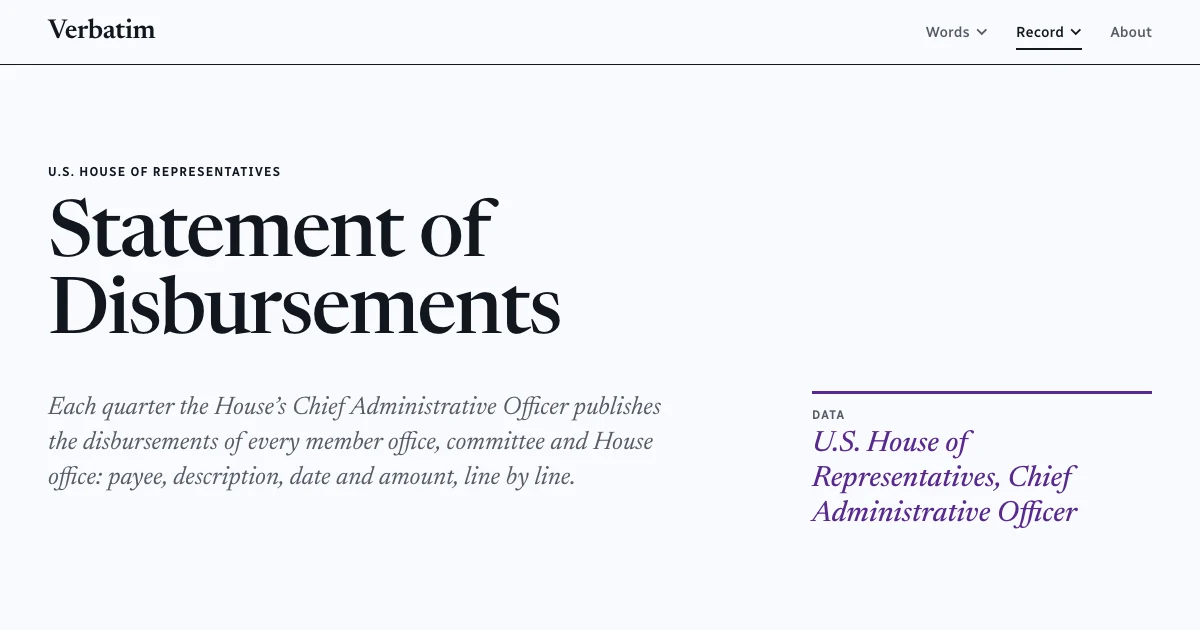
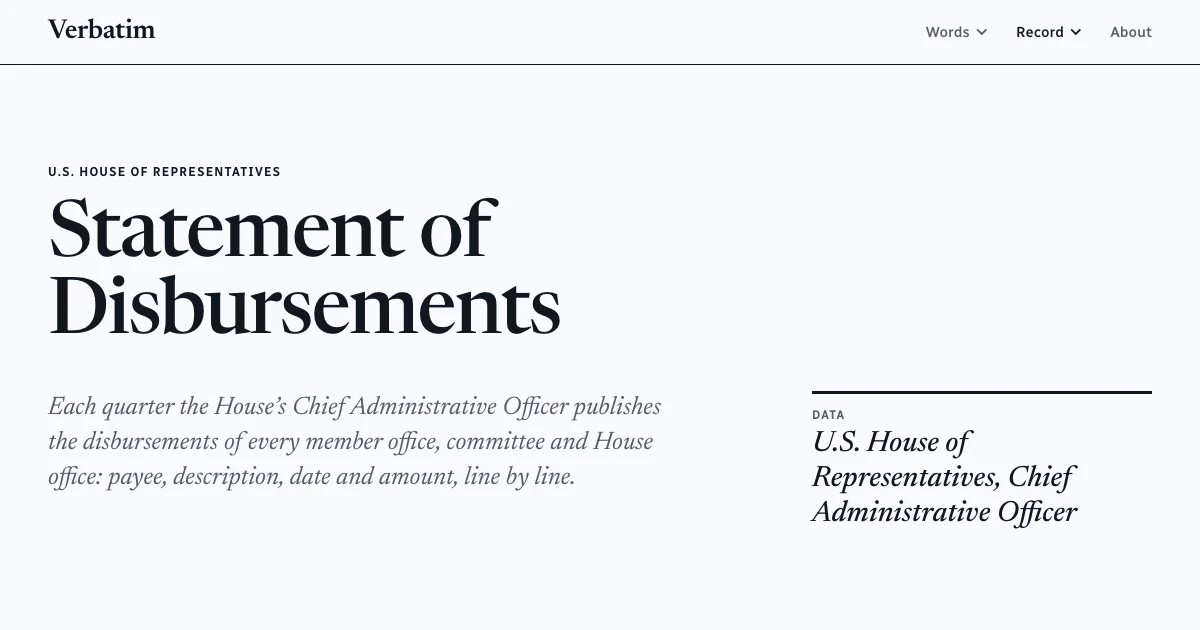
Ink bylines, credit rule and quote cites; drop nav underline

Changed region(s): [[0.6783, 0.6937, 0.8942, 0.8444], [0.6783, 0.6032, 0.9558, 0.6333], [0.8633, 0.0603, 0.8942, 0.0905]]

diff --git a/public/css/app.css b/public/css/app.css
@@ -195,10 +195,7 @@
     transition: color 0.15s;
   }
   .nav-link:hover { color: var(--color-ink); }
-  .nav-link[aria-current="page"] {
-    color: var(--color-ink);
-    box-shadow: inset 0 -2px 0 var(--color-ink);
-  }
+  .nav-link[aria-current="page"] { color: var(--color-ink); }
   .menu-button {
     padding: 0.4rem;
     margin-right: -0.4rem;
@@ -216,7 +213,7 @@
     border-bottom: 1px solid var(--color-rule);
   }
   .mobile-menu > .nav-link:last-child { border-bottom: 0; }
-  .mobile-menu .nav-link[aria-current="page"] { box-shadow: none; font-weight: 600; }
+  .mobile-menu .nav-link[aria-current="page"] { font-weight: 600; }
   .mobile-menu-label { padding-block: 0.85rem 0.15rem; }
   .mobile-menu-group .nav-link { padding-left: 1rem; }
 
@@ -234,10 +231,7 @@
   .nav-menu > summary::-webkit-details-marker { display: none; }
   .nav-menu > summary:hover,
   .nav-menu[open] > summary { color: var(--color-ink); }
-  .nav-menu:has([aria-current="page"]) > summary {
-    color: var(--color-ink);
-    box-shadow: inset 0 -2px 0 var(--color-ink);
-  }
+  .nav-menu:has([aria-current="page"]) > summary { color: var(--color-ink); }
   .nav-caret {
     width: 0.55rem;
     height: 0.35rem;
@@ -262,7 +256,7 @@
     border-bottom: 1px solid var(--color-rule);
   }
   .nav-menu-panel .nav-link:last-child { border-bottom: 0; }
-  .nav-menu-panel .nav-link[aria-current="page"] { box-shadow: none; font-weight: 600; }
+  .nav-menu-panel .nav-link[aria-current="page"] { font-weight: 600; }
 
   /* ---------- Type: furniture ---------- */
   .kicker {
@@ -376,9 +370,9 @@
     font-weight: 500;
     font-size: 1.02rem;
     line-height: 1.2;
-    color: var(--color-source);
   }
-  a.byline-source { text-decoration: none; }
+  /* Ink, not violet: violet text reads as a link, so only a byline that is one gets it. */
+  a.byline-source { color: var(--color-source); text-decoration: none; }
   a.byline-source:hover { text-decoration: underline; text-underline-offset: 0.15em; }
   .byline-index {
     flex-basis: 100%;
@@ -386,9 +380,9 @@
     font-size: 0.6rem;
     color: var(--color-ink-dim);
   }
-  /* The story-header credit block: a violet rule marks the provenance slot. */
+  /* The story-header credit block, under a strong rule. */
   .credit {
-    border-top: 3px solid var(--color-source);
+    border-top: 3px solid var(--color-rule-strong);
     padding-top: 0.6rem;
   }
   .credit .byline-source { font-size: clamp(1.25rem, 1.05rem + 0.6vw, 1.6rem); }
@@ -1659,7 +1653,6 @@
     font-style: italic;
     font-size: 0.82rem;
     line-height: 1.35;
-    color: var(--color-source);
   }
   .quote-cite .quote-date {
     font-style: normal;
